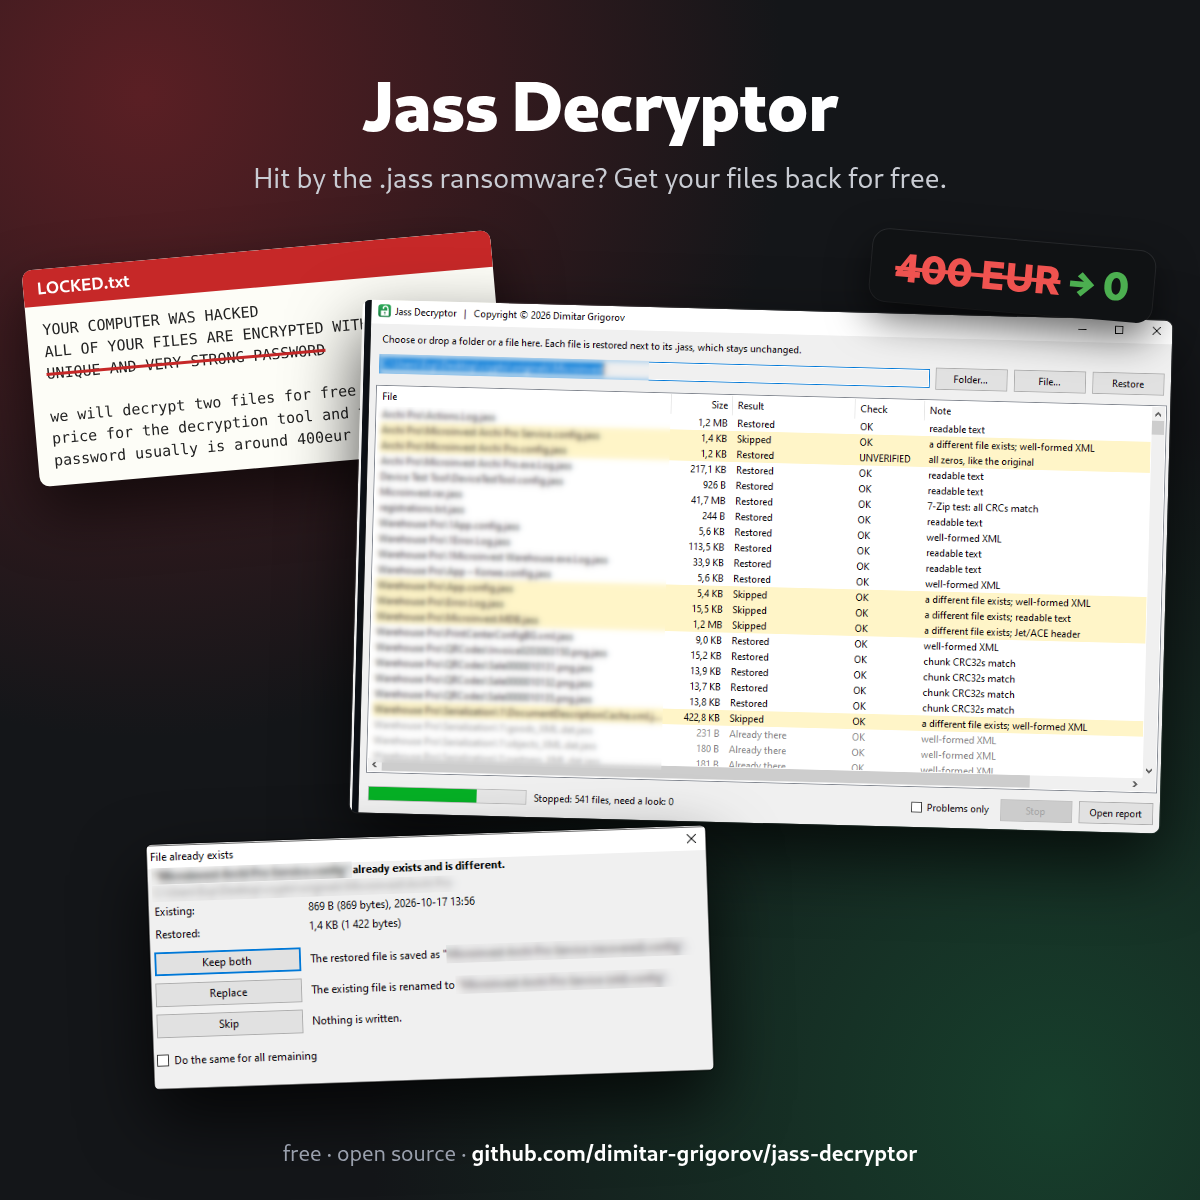
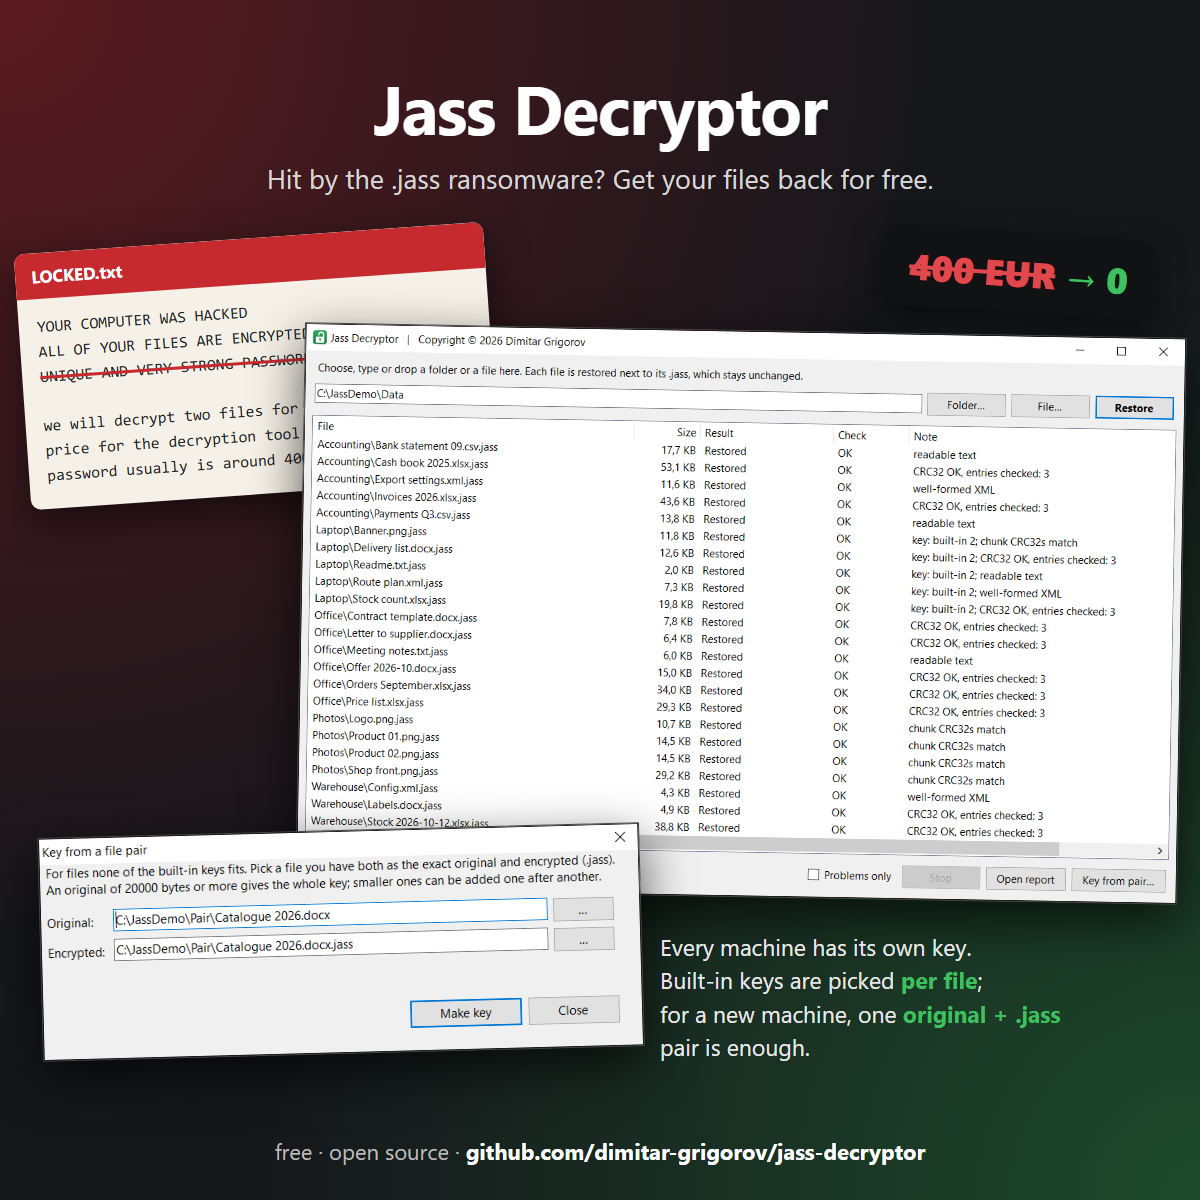
Key from a file pair, new screenshots; 1.3.0

Changed region(s): [[0.0, 0.0617, 1.0, 0.925], [0.2158, 0.9558, 0.7708, 0.9867]]

diff --git a/csharp/JassDecryptor.cs b/csharp/JassDecryptor.cs
@@ -22,7 +22,7 @@ using Microsoft.Win32;
 [assembly: System.Reflection.AssemblyTitle("Jass Decryptor")]
 [assembly: System.Reflection.AssemblyProduct("Jass Decryptor")]
 [assembly: System.Reflection.AssemblyCopyright("Copyright © 2026 Dimitar Grigorov")]
-[assembly: System.Reflection.AssemblyVersion("1.2.0.0")]
+[assembly: System.Reflection.AssemblyVersion("1.3.0.0")]
 
 namespace JassDecryptor
 {
@@ -65,6 +65,45 @@ namespace JassDecryptor
                     keys.Add(new Key { Name = b[2], K = k });
                 }
             return keys;
+        }
+
+        // Adds original XOR encrypted to a key being built; returns an error or null.
+        public static string AddPair(string orig, string enc, byte[] key, bool[] known)
+        {
+            using (var a = new FileStream(orig, FileMode.Open, FileAccess.Read, FileShare.ReadWrite))
+            using (var b = new FileStream(enc, FileMode.Open, FileAccess.Read, FileShare.ReadWrite))
+            {
+                if (a.Length != b.Length) return "The sizes differ, so these are not the same version of the file.";
+                if (a.Length == 0) return "The file is empty.";
+                int n = (int)Math.Min(a.Length, N);
+                var ha = new byte[n]; var hb = new byte[n];
+                Util.ReadFull(a, ha, 0, n); Util.ReadFull(b, hb, 0, n);
+                var ta = new byte[1 << 16]; var tb = new byte[1 << 16];
+                int r;
+                while ((r = Util.ReadFull(a, ta, 0, ta.Length)) > 0)
+                {
+                    Util.ReadFull(b, tb, 0, r);
+                    for (int i = 0; i < r; i++)
+                        if (ta[i] != tb[i]) return "The files differ after byte " + N + ", so these are not the same version of the file.";
+                }
+                bool changed = false;
+                for (int i = 0; i < n; i++)
+                {
+                    byte x = (byte)(ha[i] ^ hb[i]);
+                    if (x != 0) changed = true;
+                    if (known[i] && key[i] != x) return "This pair disagrees with the previous one at byte " + i + ": one of them is not an exact original.";
+                }
+                if (!changed) return "The two files are identical: the second one is not encrypted.";
+                for (int i = 0; i < n; i++) { key[i] = (byte)(ha[i] ^ hb[i]); known[i] = true; }
+                return null;
+            }
+        }
+
+        // Puts the key first, replacing an earlier key file.
+        public static void Use(byte[] key)
+        {
+            All.RemoveAll(k => k.Name == FileName);
+            All.Insert(0, new Key { Name = FileName, K = key });
         }
     }
 
@@ -851,6 +890,7 @@ namespace JassDecryptor
         readonly Button startBtn = new Button { Text = "Restore", Enabled = false };
         readonly Button stopBtn = new Button { Text = "Stop", Enabled = false };
         readonly Button reportBtn = new Button { Text = "Open report", Enabled = false };
+        readonly Button keyBtn = new Button { Text = "Key from pair…" };
         readonly CheckBox onlyProblems = new CheckBox { Text = "Problems only", AutoSize = true, Anchor = AnchorStyles.Left };
         readonly ListView list = new ListView { View = View.Details, FullRowSelect = true, Dock = DockStyle.Fill };
         readonly ProgressBar bar = new ProgressBar { Anchor = AnchorStyles.Left | AnchorStyles.Right };
@@ -882,7 +922,7 @@ namespace JassDecryptor
                 Text = "Choose, type or drop a folder or a file here. Each file is restored next to its .jass, which stays unchanged.",
                 AutoSize = true, Margin = new Padding(3, 3, 3, px(6))
             };
-            foreach (var b in new[] { folderBtn, fileBtn, startBtn, stopBtn, reportBtn })
+            foreach (var b in new[] { folderBtn, fileBtn, startBtn, stopBtn, reportBtn, keyBtn })
             {
                 b.AutoSize = true; b.MinimumSize = new Size(px(90), 0); b.Padding = new Padding(px(6), px(2), px(6), px(2));
             }
@@ -899,13 +939,13 @@ namespace JassDecryptor
             var mid = new Panel { Dock = DockStyle.Fill, Padding = new Padding(px(8)) };
             mid.Controls.Add(list);
 
-            var bottom = new TableLayoutPanel { Dock = DockStyle.Bottom, AutoSize = true, ColumnCount = 5, Padding = new Padding(px(8), 0, px(8), px(8)) };
+            var bottom = new TableLayoutPanel { Dock = DockStyle.Bottom, AutoSize = true, ColumnCount = 6, Padding = new Padding(px(8), 0, px(8), px(8)) };
             bottom.ColumnStyles.Add(new ColumnStyle(SizeType.Absolute, px(200)));
             bottom.ColumnStyles.Add(new ColumnStyle(SizeType.Percent, 100));
-            for (int i = 0; i < 3; i++) bottom.ColumnStyles.Add(new ColumnStyle(SizeType.AutoSize));
+            for (int i = 0; i < 4; i++) bottom.ColumnStyles.Add(new ColumnStyle(SizeType.AutoSize));
             bar.Height = px(18);
             bottom.Controls.Add(bar, 0, 0); bottom.Controls.Add(status, 1, 0); bottom.Controls.Add(onlyProblems, 2, 0);
-            bottom.Controls.Add(stopBtn, 3, 0); bottom.Controls.Add(reportBtn, 4, 0);
+            bottom.Controls.Add(stopBtn, 3, 0); bottom.Controls.Add(reportBtn, 4, 0); bottom.Controls.Add(keyBtn, 5, 0);
 
             Controls.Add(mid); Controls.Add(bottom); Controls.Add(top);
 
@@ -928,6 +968,7 @@ namespace JassDecryptor
             pathBox.Leave += delegate { ApplyTyped(); };
             startBtn.Click += delegate { Start(); };
             stopBtn.Click += delegate { stop = true; stopBtn.Enabled = false; status.Text = "Stopping after the current file…"; };
+            keyBtn.Click += delegate { KeyFromPair(); };
             reportBtn.Click += delegate { if (reportPath != null) Process.Start("explorer.exe", "/select,\"" + reportPath + "\""); };
             onlyProblems.CheckedChanged += delegate { Refill(); };
             DragEnter += (s, e) => { e.Effect = e.Data.GetDataPresent(DataFormats.FileDrop) && !stopBtn.Enabled ? DragDropEffects.Copy : DragDropEffects.None; };
@@ -1020,7 +1061,7 @@ namespace JassDecryptor
             results.Clear(); list.Items.Clear();
             bar.Maximum = files.Count; bar.Value = 0;
             running = true; pathBox.ReadOnly = true;
-            startBtn.Enabled = folderBtn.Enabled = fileBtn.Enabled = false; stopBtn.Enabled = true; reportBtn.Enabled = false;
+            startBtn.Enabled = folderBtn.Enabled = fileBtn.Enabled = keyBtn.Enabled = false; stopBtn.Enabled = true; reportBtn.Enabled = false;
             flush.Start();
             var work = new List<string>(files);
             var t = new Thread(() =>
@@ -1035,6 +1076,93 @@ namespace JassDecryptor
                 BeginInvoke((MethodInvoker)Finish);
             }) { IsBackground = true };
             t.Start();
+        }
+
+        void KeyFromPair()
+        {
+            float k;
+            using (var g = CreateGraphics()) k = g.DpiX / 96f;
+            Func<int, int> px = v => (int)(v * k);
+            var key = new byte[Keystream.N]; var known = new bool[Keystream.N];
+
+            var d = new Form
+            {
+                Text = "Key from a file pair", FormBorderStyle = FormBorderStyle.FixedDialog, StartPosition = FormStartPosition.CenterParent,
+                MinimizeBox = false, MaximizeBox = false, ShowInTaskbar = false, Font = Font, AutoScaleMode = AutoScaleMode.None,
+                AutoSize = true, AutoSizeMode = AutoSizeMode.GrowAndShrink, Padding = new Padding(px(14))
+            };
+            var t = new TableLayoutPanel { AutoSize = true, ColumnCount = 3 };
+            var info = new Label
+            {
+                Text = "For files none of the built-in keys fits. Pick a file you have both as the exact original and encrypted (.jass). " +
+                    "An original of 20000 bytes or more gives the whole key; smaller ones can be added one after another.",
+                AutoSize = true, MaximumSize = new Size(px(560), 0), Margin = new Padding(px(3), 0, px(3), px(10))
+            };
+            t.Controls.Add(info); t.SetColumnSpan(info, 3);
+            var origBox = new TextBox { Width = px(420) };
+            var encBox = new TextBox { Width = px(420) };
+            foreach (var row in new[] { Tuple.Create("Original:", origBox), Tuple.Create("Encrypted:", encBox) })
+            {
+                var box = row.Item2;
+                var browse = new Button { Text = "…", AutoSize = true, MinimumSize = new Size(px(32), 0) };
+                browse.Click += delegate
+                {
+                    Cursor.Current = Cursors.WaitCursor;
+                    using (var o = new OpenFileDialog { Filter = box == encBox ? ".jass files|*.jass*|All files|*.*" : "All files|*.*", InitialDirectory = StartFolder() ?? "" })
+                        if (o.ShowDialog(d) == DialogResult.OK)
+                        {
+                            box.Text = o.FileName;
+                            // The other half usually sits next to it.
+                            int layers;
+                            string other = box == origBox ? o.FileName + ".jass" : Path.Combine(Path.GetDirectoryName(o.FileName), Engine.BaseName(Path.GetFileName(o.FileName), out layers));
+                            var otherBox = box == origBox ? encBox : origBox;
+                            if (otherBox.Text.Length == 0 && File.Exists(other)) otherBox.Text = other;
+                        }
+                };
+                t.Controls.Add(new Label { Text = row.Item1, AutoSize = true, Anchor = AnchorStyles.Left });
+                t.Controls.Add(box); t.Controls.Add(browse);
+            }
+            var state = new Label { AutoSize = true, MaximumSize = new Size(px(560), 0), Margin = new Padding(px(3), px(10), px(3), px(10)) };
+            t.Controls.Add(state); t.SetColumnSpan(state, 3);
+            var add = new Button { Text = "Make key", AutoSize = true, MinimumSize = new Size(px(110), px(28)) };
+            var close = new Button { Text = "Close", AutoSize = true, MinimumSize = new Size(px(90), px(28)), DialogResult = DialogResult.Cancel };
+            var buttons = new FlowLayoutPanel { AutoSize = true, FlowDirection = FlowDirection.RightToLeft, Dock = DockStyle.Fill };
+            buttons.Controls.Add(close); buttons.Controls.Add(add);
+            t.Controls.Add(buttons); t.SetColumnSpan(buttons, 3);
+            d.Controls.Add(t);
+            d.AcceptButton = add; d.CancelButton = close;
+
+            add.Click += delegate
+            {
+                string err;
+                try { err = Keystream.AddPair(origBox.Text.Trim(), encBox.Text.Trim(), key, known); }
+                catch (Exception ex) { err = ex.Message; }
+                if (err != null) { state.ForeColor = Color.Firebrick; state.Text = err; return; }
+                int have = Array.FindAll(known, x => x).Length;
+                if (have < Keystream.N)
+                {
+                    state.ForeColor = SystemColors.ControlText;
+                    state.Text = "Known: " + have + " of " + Keystream.N + " bytes. Add a pair with a larger original to complete the key.";
+                    origBox.Text = encBox.Text = "";
+                    return;
+                }
+                var same = Keystream.All.Find(x => Util.Hex(x.K) == Util.Hex(key));
+                if (same != null)
+                {
+                    MessageBox.Show(d, "This is the " + same.Name + " key; nothing to save.", d.Text, MessageBoxButtons.OK, MessageBoxIcon.Information);
+                    d.Close(); return;
+                }
+                string path = Path.Combine(Path.GetDirectoryName(Application.ExecutablePath), Keystream.FileName);
+                if (File.Exists(path) && MessageBox.Show(d, Keystream.FileName + " already exists next to the exe. Replace it?", d.Text,
+                        MessageBoxButtons.YesNo, MessageBoxIcon.Warning) != DialogResult.Yes) return;
+                try { File.WriteAllBytes(path, key); }
+                catch (Exception ex) { state.ForeColor = Color.Firebrick; state.Text = "Cannot save " + path + ": " + ex.Message; return; }
+                Keystream.Use(key);
+                MessageBox.Show(d, "Key saved as " + path + ".\nIt is used from now on, together with the built-in ones.", d.Text, MessageBoxButtons.OK, MessageBoxIcon.Information);
+                d.Close();
+                if (root != null) SetRoot(root);
+            };
+            d.ShowDialog(this);
         }
 
         Conflict AskOnUiThread(Result r, string existing)
@@ -1144,7 +1272,7 @@ namespace JassDecryptor
             reportPath = Engine.WriteReport(results);
             reportBtn.Enabled = reportPath != null;
             running = false; pathBox.ReadOnly = false;
-            startBtn.Enabled = folderBtn.Enabled = fileBtn.Enabled = true; stopBtn.Enabled = false;
+            startBtn.Enabled = folderBtn.Enabled = fileBtn.Enabled = keyBtn.Enabled = true; stopBtn.Enabled = false;
             var cnt = new Dictionary<string, int>();
             int problems = 0;
             foreach (var r in results)

diff --git a/README.md b/README.md
@@ -55,13 +55,19 @@ Before writing anything, the tool tests its keys on a few of your files. If none
 
 ## Different key?
 
-You need one file that you have both as an exact original and encrypted: an installer, a PDF from an e-mail, a template. Ideally 20000 bytes or larger.
+You need one file that you have both as an exact original and encrypted: an installer, a PDF from an e-mail, a template, or a file that was open while the ransomware ran (it often leaves `name` next to `name.jass`). Ideally 20000 bytes or larger; smaller pairs can be combined.
+
+Press **Key from pair…**, pick the two files and press **Make key**. The key is saved as `jass_keystream_20000.bin` next to the exe and used from then on, together with the built-in ones.
+
+<p align="center"><img src="screenshots/key-from-pair.png" width="560" alt="Key from a file pair dialog"></p>
+
+The same from a script:
 
 ```
 python python/derive_keystream.py jass_keystream_20000.bin <original> <original>.jass
 ```
 
-Put `jass_keystream_20000.bin` next to `JassDecryptor.exe`; it is tried along with the built-in keys. An older version of a file is not an original: wherever its content changed, the key comes out wrong.
+An older version of a file is not an original: wherever its content changed, the key comes out wrong.
 
 Stuck? Open an issue, with one non-sensitive original/encrypted pair if you can share it.
 

diff --git a/CHANGELOG.md b/CHANGELOG.md
@@ -1,5 +1,10 @@
 # Changelog
 
+## 1.3.0 (2026-10-19)
+
+- **Key from pair…** makes the key for a new machine from one file you have both as the original and encrypted; smaller pairs can be combined. The key is saved next to the exe and used from then on.
+- New screenshots.
+
 ## 1.2.0 (2026-10-18)
 
 - The key differs between infected machines. A second key is built in, and every file gets the key that fits it, so one folder may hold files from different machines.
